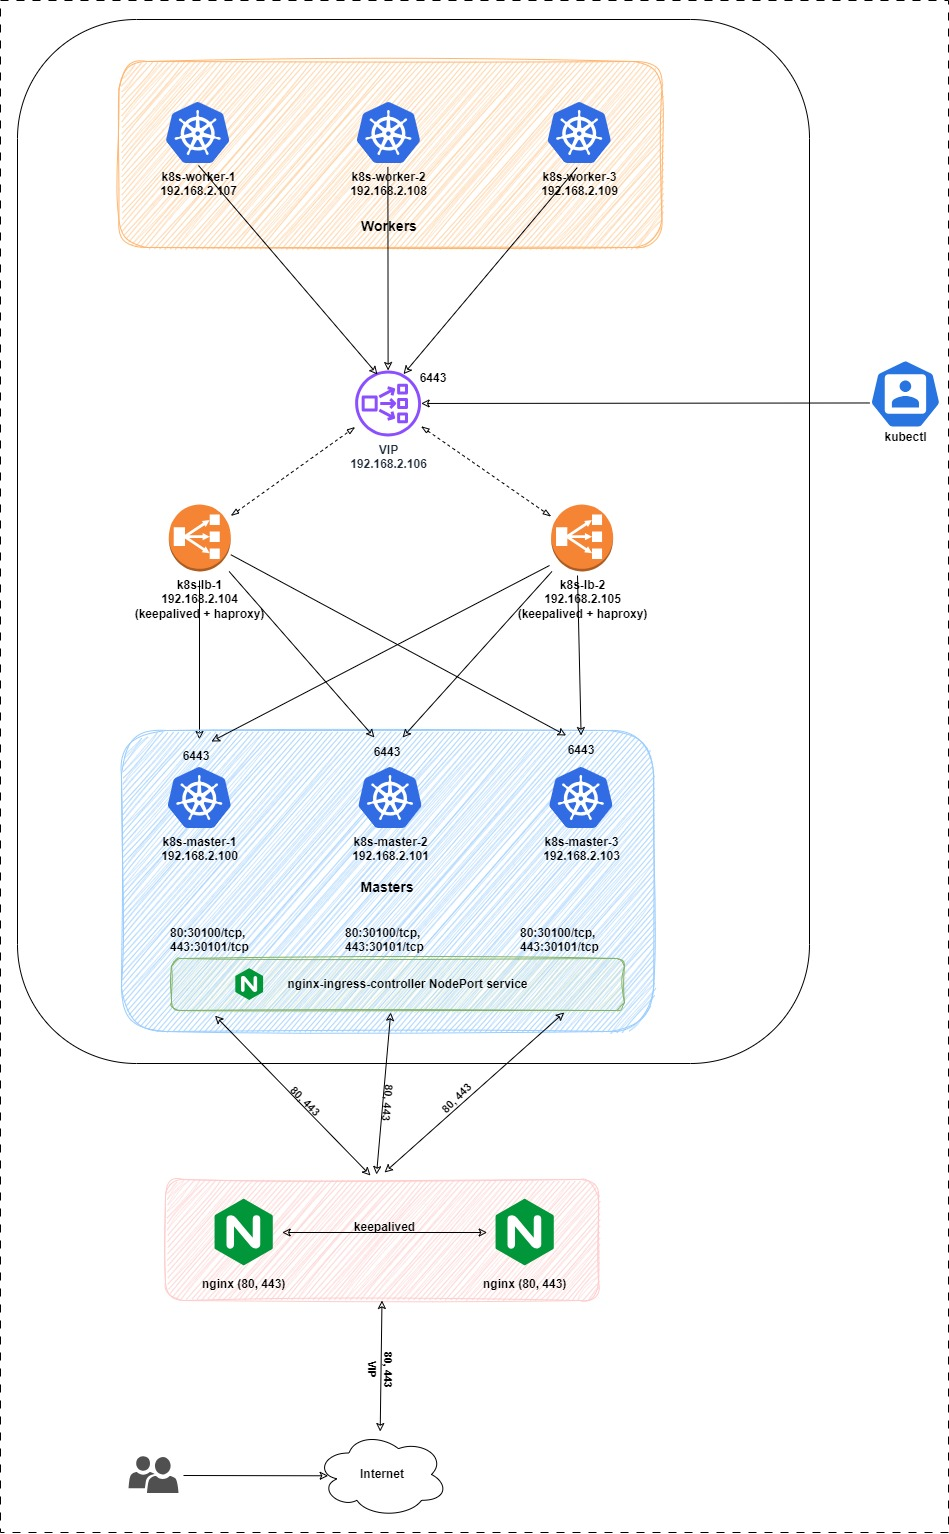
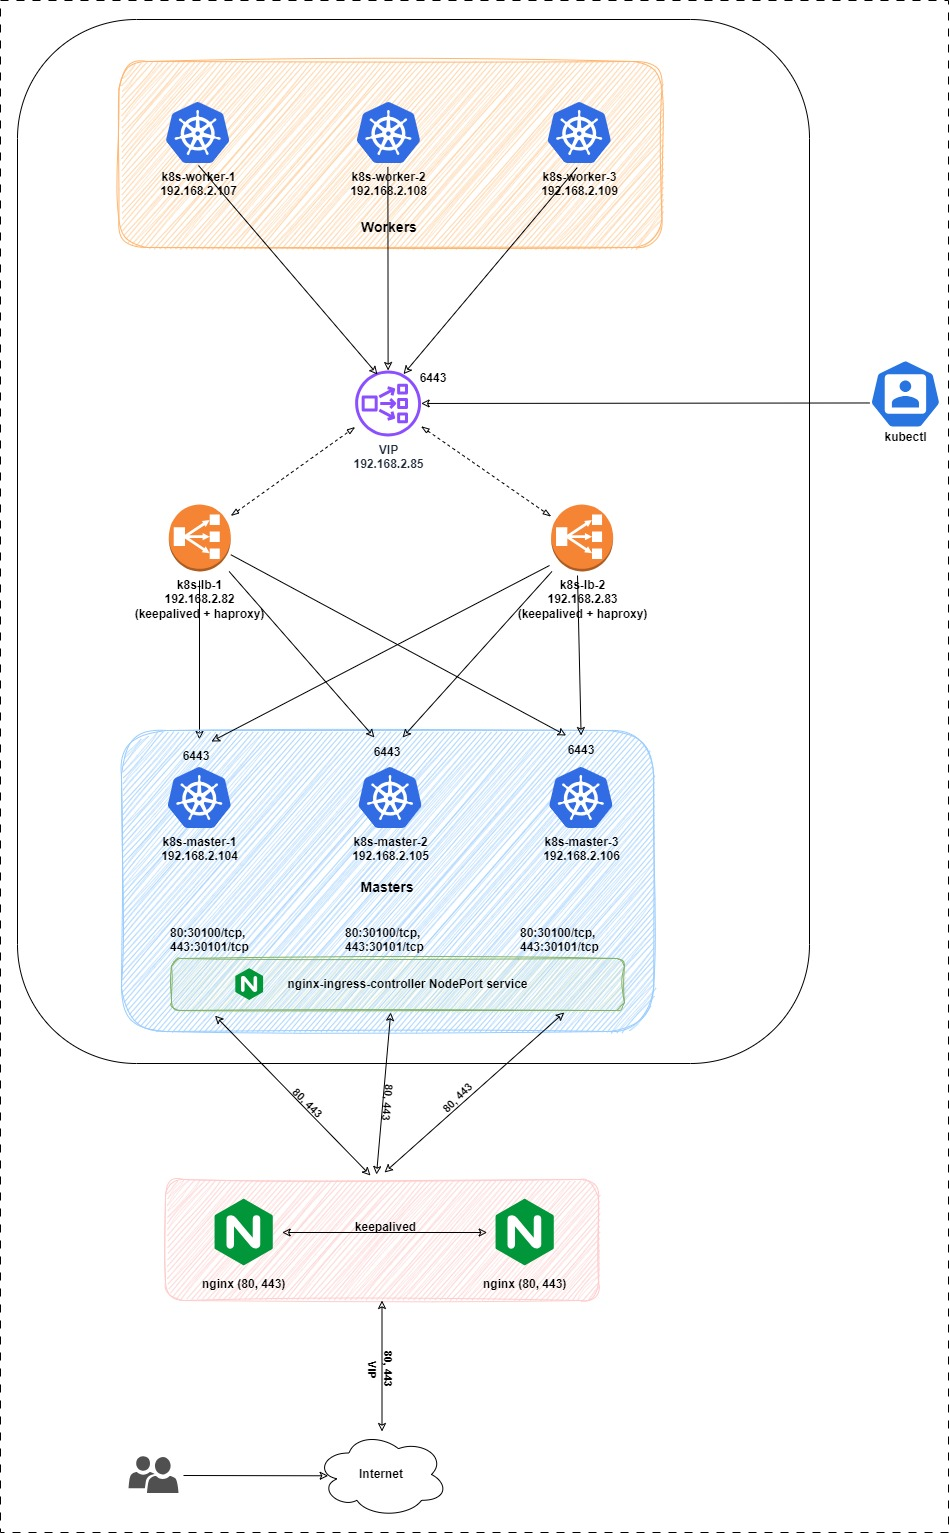
cm

diff --git a/README.md b/README.md
@@ -267,6 +267,15 @@ echo 'alias k=kubectl' >> ~/.bashrc
 echo 'alias c=clear' >> ~/.bashrc
 ```
 
+* install kubeclt
+```
+curl -LO https://dl.k8s.io/release/`curl -LS https://dl.k8s.io/release/stable.txt`/bin/linux/amd64/kubectl
+chmod +x ./kubectl
+sudo mv ./kubectl /usr/local/bin/kubectl
+export KUBECONFIG=/etc/rancher/rke2/rke2.yaml
+kubectl version
+```
+
 * install helm
 ```
 curl -fsSL -o get_helm.sh https://raw.githubusercontent.com/helm/helm/main/scripts/get-helm-3
@@ -276,11 +285,11 @@ chmod 700 get_helm.sh
 
 # Step 4 – Set up additional Server Nodes (Master Nodes)
 
-* Install RKE2 server
+* Join master node
 ```
-curl -sfL https://get.rke2.io --output install.sh
-chmod +x install.sh
-sudo INSTALL_RKE2_TYPE=server ./install.sh
+kubeadm join 192.168.2.85:6443 --token r4w09j.1aeqd3cjk0tl5ttf \
+      --discovery-token-ca-cert-hash sha256:91160eda2f93b0f01b82218f78e5735890799b6000cd6e71d03a69ee24d091c0 \
+      --control-plane --certificate-key 524dc72e322d3e4dfb44060fa4584c94d8a611da29db28280ad1017be7731b52
 ```
 
 * RKE2 config file for second server (master2)
